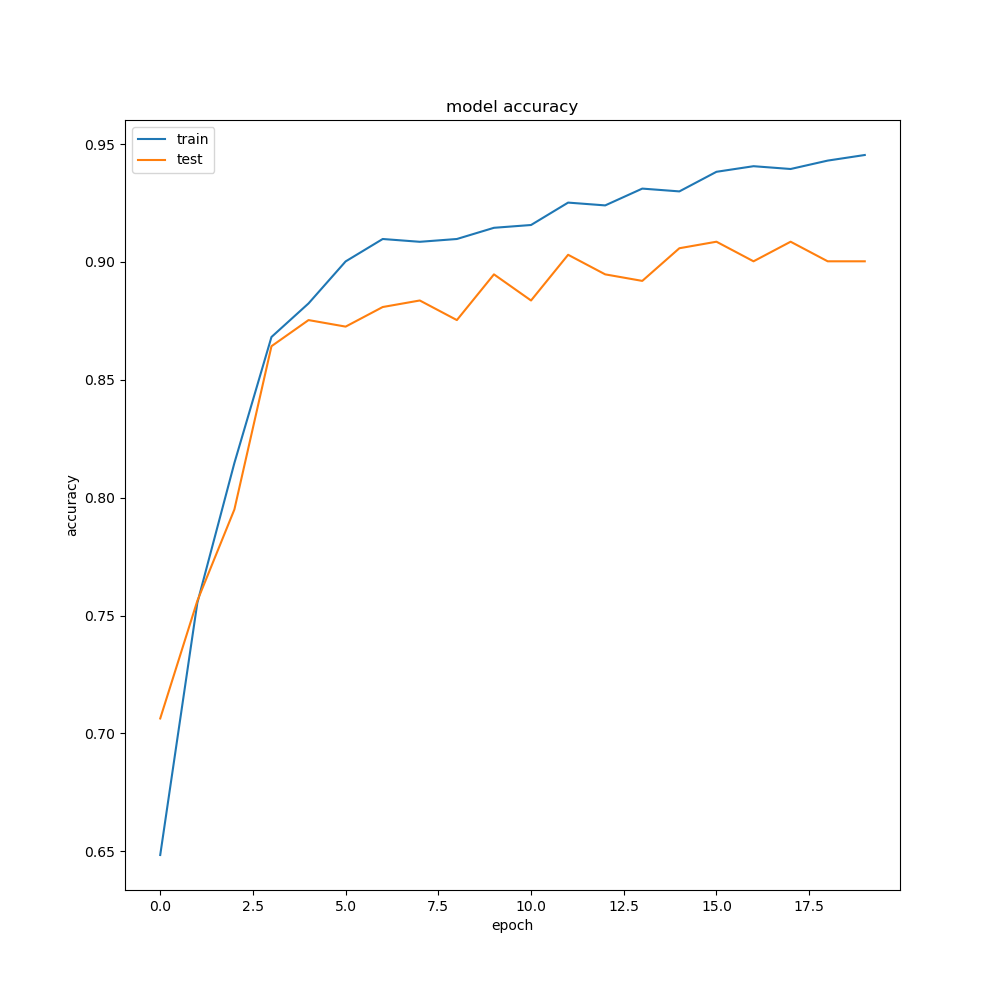
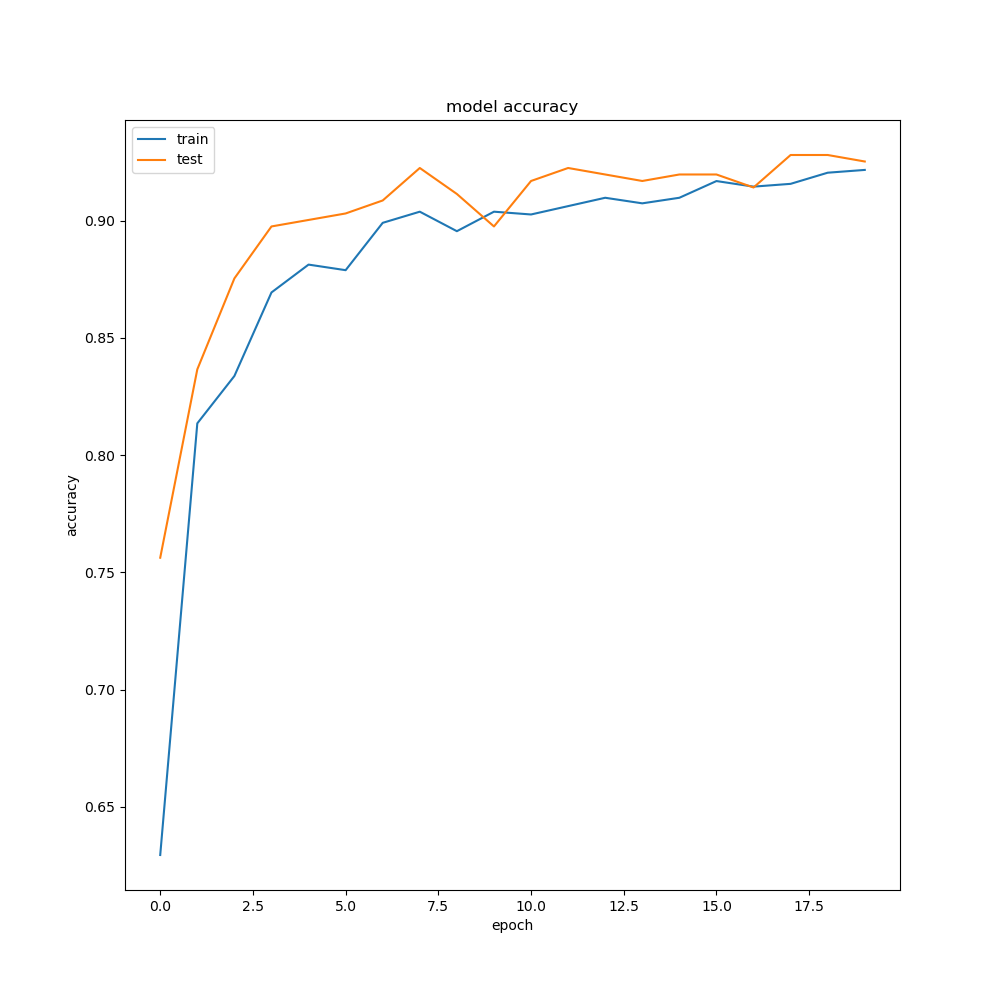
Add model data saving

diff --git a/smile/__main__.py b/smile/__main__.py
@@ -5,15 +5,14 @@ import cv2
 from matplotlib import pyplot as plt
 
 import utils.imageHandler as imageHandler
-from smile.utils import graphHandler
+from smile.utils import graphHandler, fileHandler
 from utils import dataLoader, modelTrainer, dataTransformer
-from utils.fileHandler import list_files, make_save_directory
 from utils.makeLabels import make_labels
 
 
 def main():
     print("retrieve and load images...")
-    (smile_files, non_smile_files) = list_files()
+    (smile_files, non_smile_files) = fileHandler.list_files()
     imageHandler.read_image_open(random.choice(smile_files), False)
 
     (positive_labels, negative_labels) = make_labels(smile_files, non_smile_files)
@@ -40,8 +39,9 @@ def main():
     print("model training is done!")
 
     print("\nsave model...")
-    path = make_save_directory(number_of_filters, filter_size, pooling_size, epoch_num, batch_size)
+    path = fileHandler.make_save_directory(number_of_filters, filter_size, pooling_size, epoch_num, batch_size)
     model.save_weights(path + '/cnn.h5')
+    fileHandler.save_model_data(history, path)
     print("save model is done!")
 
     print("\nshow graphs...")
@@ -61,7 +61,7 @@ def main():
 
 
 def camera():
-    # TODO: run camera real time and guess faces
+    # TODO: run camera real time and predict smile
     return None
 
 
@@ -120,7 +120,7 @@ if __name__ == '__main__':
     filter_size = 3
     pooling_size = 2
 
-    epoch_num = 10
+    epoch_num = 20
     batch_size = 32
 
     while True:

diff --git a/smile/utils/fileHandler.py b/smile/utils/fileHandler.py
@@ -1,5 +1,7 @@
 import os
 
+import numpy as np
+
 
 def list_files():
     smile_files = os.listdir('../data/smile')
@@ -14,8 +16,27 @@ def make_save_directory(nof, fs, ps, en, bs):
                 + '__ps-' + str(ps) + '__en-' + str(en)
                 + '__bs-' + str(bs))
     save_path = './saves/' + dir_name
-    
+
     if not os.path.isdir(save_path):
         os.mkdir(save_path)
 
     return save_path
+
+
+def save_model_data(history, path):
+    f = open(path + '/model-data.txt', 'w')
+    f.write(f'last training data accuracy: {history.history["accuracy"][-1]}\n')
+    f.write(f'best training data accuracy: {max(history.history["accuracy"])} - '
+            f'index: {np.argmax(history.history["accuracy"])}\n')
+
+    f.write(f'\nlast test data accuracy: {history.history["val_accuracy"][-1]}\n')
+    f.write(f'best test data accuracy: {max(history.history["val_accuracy"])} - '
+            f'index: {np.argmax(history.history["val_accuracy"])}\n')
+
+    f.write(f'\nlast training data loss: {history.history["loss"][-1]}\n')
+    f.write(f'best training data loss: {min(history.history["loss"])} - '
+            f'index: {np.argmin(history.history["loss"])}\n')
+
+    f.write(f'\nlast test data loss: {history.history["val_loss"][-1]}\n')
+    f.write(f'best test data loss: {min(history.history["val_loss"])} - '
+            f'index: {np.argmin(history.history["val_loss"])}\n')
